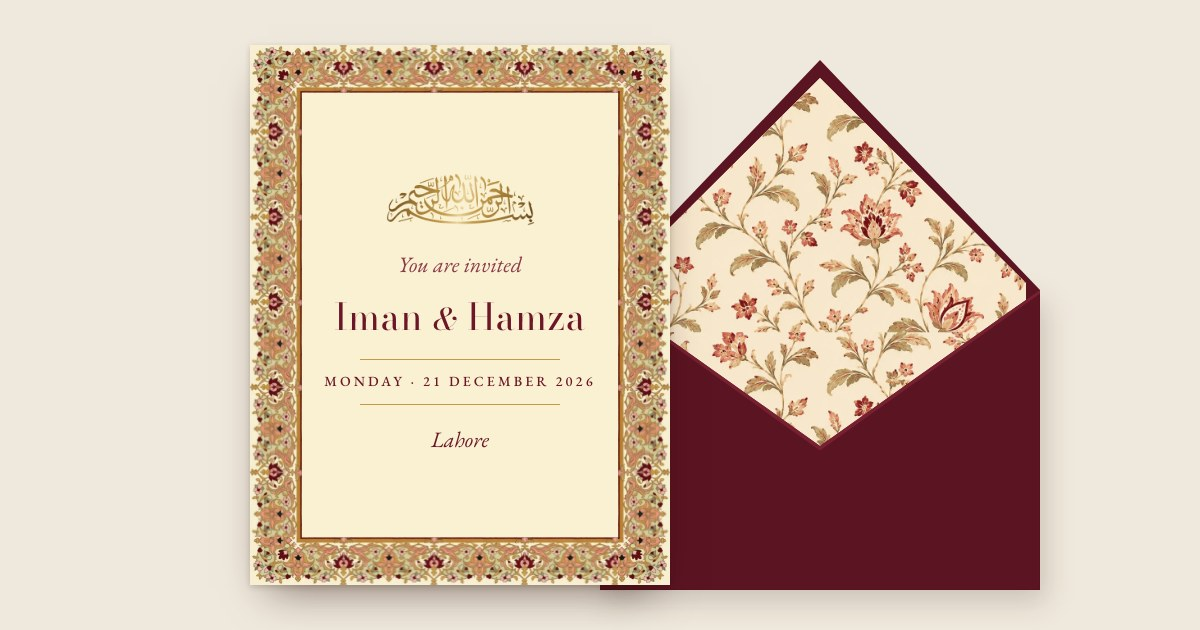
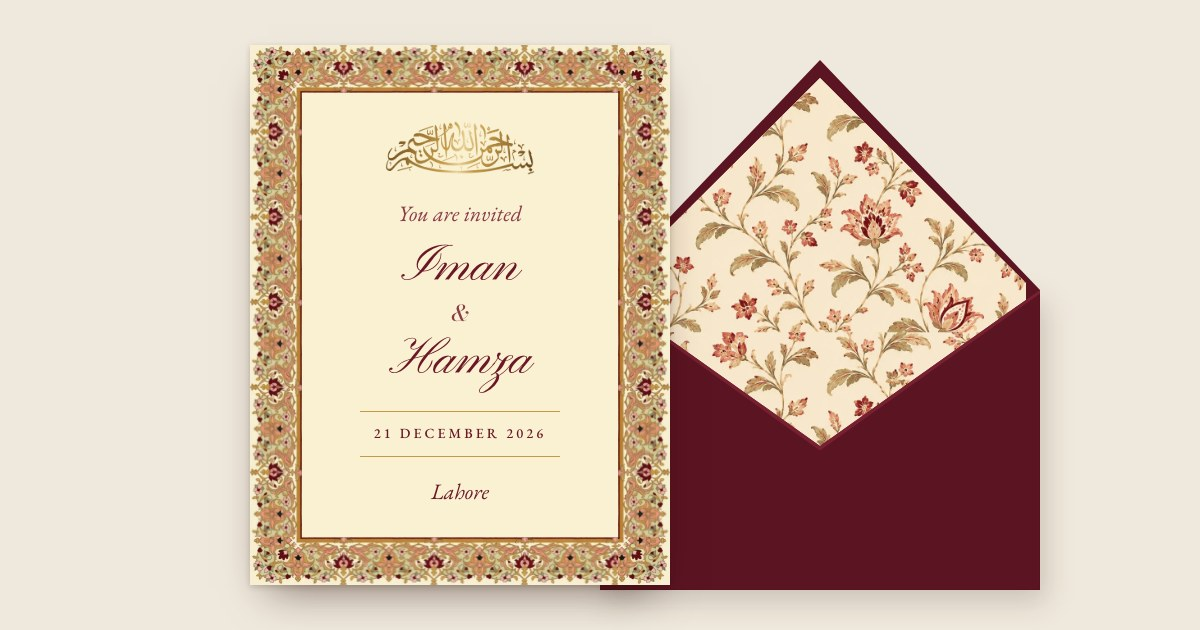
Link previews: script names on the Shaadi card, pink Reception envelope, dates only
Preview images and their WhatsApp line only; the invitations are unchanged.

diff --git a/src/entry-og.tsx b/src/entry-og.tsx
@@ -16,7 +16,7 @@ const ev = new URLSearchParams(location.search).get('event') === 'walima' ? 'wal
 applyTheme(ev === 'walima' ? walimaTheme : shaadiTheme)
 
 const look = ev === 'walima'
-  ? { bg: '#efe9de', env: '#b3b996', envEdge: '#9ea583', liner: receptionPattern, linerSize: '520px auto' }
+  ? { bg: '#efe9de', env: '#e9cdc6', envEdge: '#dbb7af', liner: receptionPattern, linerSize: '520px auto' }
   : { bg: '#efe8dc', env: '#5b1422', envEdge: '#7a2133', liner: shaadiPattern, linerSize: '420px auto' }
 
 const caps = { fontFamily: 'var(--font-body)', fontWeight: 500, textTransform: 'uppercase' as const, color: 'var(--ink)' }
@@ -44,9 +44,12 @@ function ShaadiCard() {
       <div style={{ position: 'absolute', inset: 0, zIndex: 2, display: 'flex', flexDirection: 'column', alignItems: 'center', justifyContent: 'center', textAlign: 'center', padding: '0 70px' }}>
         <div className="hero-calligraphy" style={{ width: 150, margin: '0 auto' }} />
         <p style={{ fontFamily: 'var(--font-body)', fontStyle: 'italic', fontSize: 22, color: 'var(--ink-soft)', marginTop: 22 }}>You are invited</p>
-        <p style={{ fontFamily: 'var(--font-display)', fontSize: 37, letterSpacing: '0.02em', lineHeight: 1.1, color: 'var(--ink)', marginTop: 14, whiteSpace: 'nowrap' }}>Iman <span style={{ fontStyle: 'italic', fontSize: 30 }}>&amp;</span> Hamza</p>
+        {/* names in the Reception's script (preview only) */}
+        <p style={{ fontFamily: "'Pinyon Script'", fontSize: 52, lineHeight: 1.1, color: 'var(--ink)', marginTop: 8 }}>Iman</p>
+        <p style={{ fontFamily: 'var(--font-display)', fontStyle: 'italic', fontSize: 22, color: 'var(--ink-soft)', margin: '0 0 2px' }}>&amp;</p>
+        <p style={{ fontFamily: "'Pinyon Script'", fontSize: 52, lineHeight: 1.1, color: 'var(--ink)' }}>Hamza</p>
         <span style={{ display: 'block', width: 200, height: 1, background: 'var(--gold)', margin: '22px auto 0' }} />
-        <p style={{ ...caps, fontSize: 14, letterSpacing: '0.22em', margin: '11px 0' }}>Monday · 21 December 2026</p>
+        <p style={{ ...caps, fontSize: 14, letterSpacing: '0.22em', margin: '11px 0' }}>21 December 2026</p>
         <span style={{ display: 'block', width: 200, height: 1, background: 'var(--gold)', margin: '0 auto' }} />
         <p style={{ fontFamily: 'var(--font-body)', fontStyle: 'italic', fontSize: 22, color: 'var(--ink)', marginTop: 18 }}>Lahore</p>
       </div>
@@ -66,7 +69,7 @@ function ReceptionCard() {
         <p style={{ fontFamily: 'var(--font-display)', fontStyle: 'italic', fontSize: 20, color: 'var(--ink-soft)', margin: '0 0 2px' }}>&amp;</p>
         <p style={{ fontFamily: "'Pinyon Script'", fontSize: 48, lineHeight: 1.1, color: 'var(--ink)' }}>Iman</p>
         <span style={{ display: 'block', width: 170, height: 1, background: 'var(--gold)', margin: '14px auto 0' }} />
-        <p style={{ ...caps, fontSize: 11, letterSpacing: '0.13em', margin: '9px 0' }}>Sunday · 27 December 2026</p>
+        <p style={{ ...caps, fontSize: 11, letterSpacing: '0.13em', margin: '9px 0' }}>27 December 2026</p>
         <span style={{ display: 'block', width: 170, height: 1, background: 'var(--gold)', margin: '0 auto' }} />
         <p style={{ fontFamily: 'var(--font-body)', fontStyle: 'italic', fontSize: 19, color: 'var(--ink)', marginTop: 12 }}>Karachi</p>
       </div>

diff --git a/walima/index.html b/walima/index.html
@@ -10,7 +10,7 @@
     <!-- Open Graph: the WhatsApp preview. Replace https://SITE_URL with the real domain. -->
     <meta property="og:type" content="website" />
     <meta property="og:title" content="You’re invited 💌" />
-    <meta property="og:description" content="The Reception of Hamza &amp; Iman · Sunday, 27 December 2026. Open your invitation." />
+    <meta property="og:description" content="The Reception of Hamza &amp; Iman · 27 December 2026. Open your invitation." />
     <meta property="og:image" content="https://hbaig2701.github.io/wedding-invite/og/walima.jpg" />
     <meta property="og:image:width" content="1200" />
     <meta property="og:image:height" content="630" />

diff --git a/index.html b/index.html
@@ -10,7 +10,7 @@
     <!-- Open Graph: the WhatsApp preview. Replace https://SITE_URL with the real domain. -->
     <meta property="og:type" content="website" />
     <meta property="og:title" content="You’re invited 💌" />
-    <meta property="og:description" content="The Shaadi of Iman &amp; Hamza · Monday, 21 December 2026. Open your invitation." />
+    <meta property="og:description" content="The Shaadi of Iman &amp; Hamza · 21 December 2026. Open your invitation." />
     <meta property="og:image" content="https://hbaig2701.github.io/wedding-invite/og/shaadi.jpg" />
     <meta property="og:image:width" content="1200" />
     <meta property="og:image:height" content="630" />

diff --git a/shaadi/index.html b/shaadi/index.html
@@ -10,7 +10,7 @@
     <!-- Open Graph: the WhatsApp preview. Replace https://SITE_URL with the real domain. -->
     <meta property="og:type" content="website" />
     <meta property="og:title" content="You’re invited 💌" />
-    <meta property="og:description" content="The Shaadi of Iman &amp; Hamza · Monday, 21 December 2026. Open your invitation." />
+    <meta property="og:description" content="The Shaadi of Iman &amp; Hamza · 21 December 2026. Open your invitation." />
     <meta property="og:image" content="https://hbaig2701.github.io/wedding-invite/og/shaadi.jpg" />
     <meta property="og:image:width" content="1200" />
     <meta property="og:image:height" content="630" />
